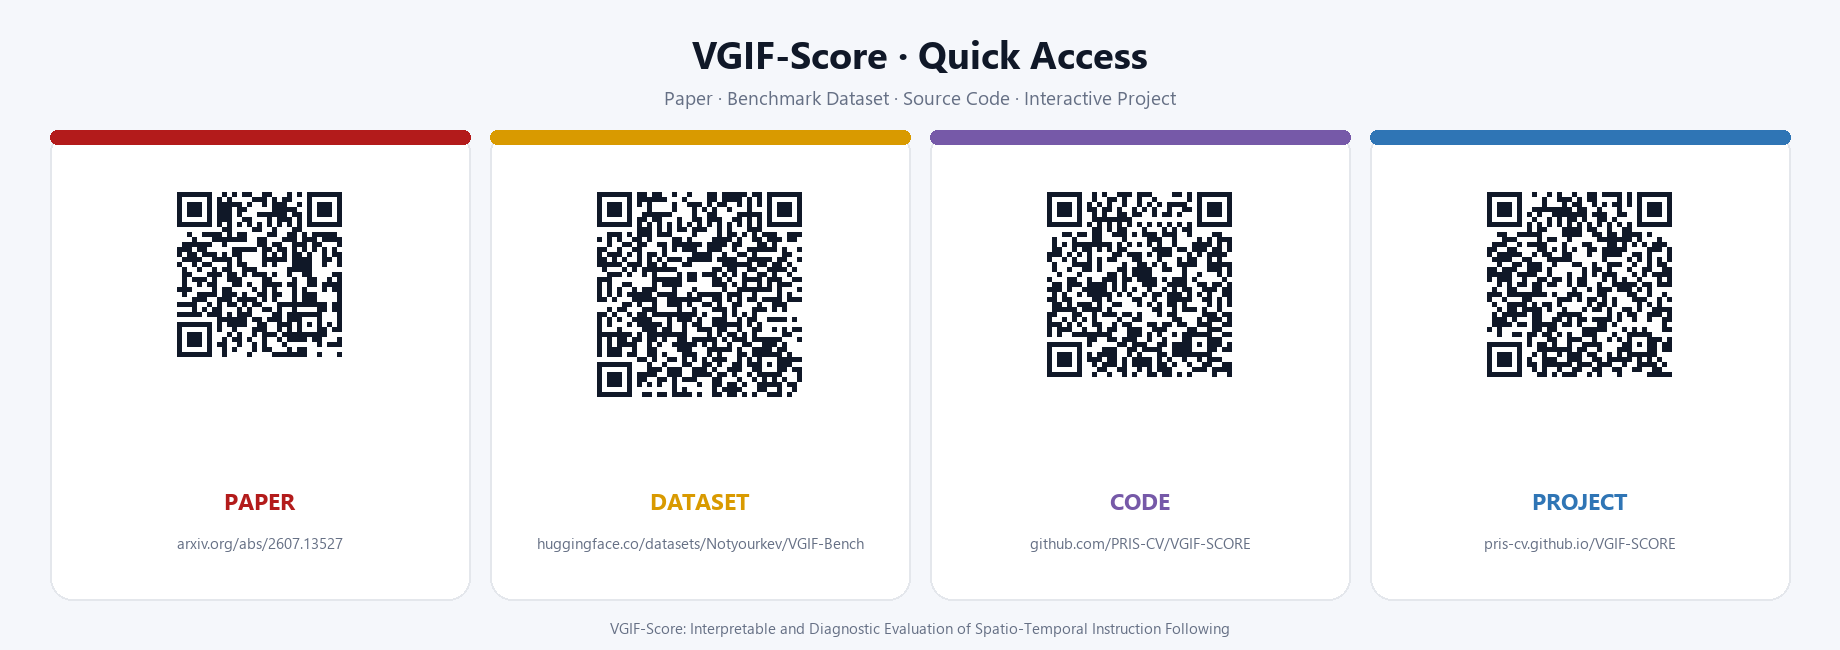
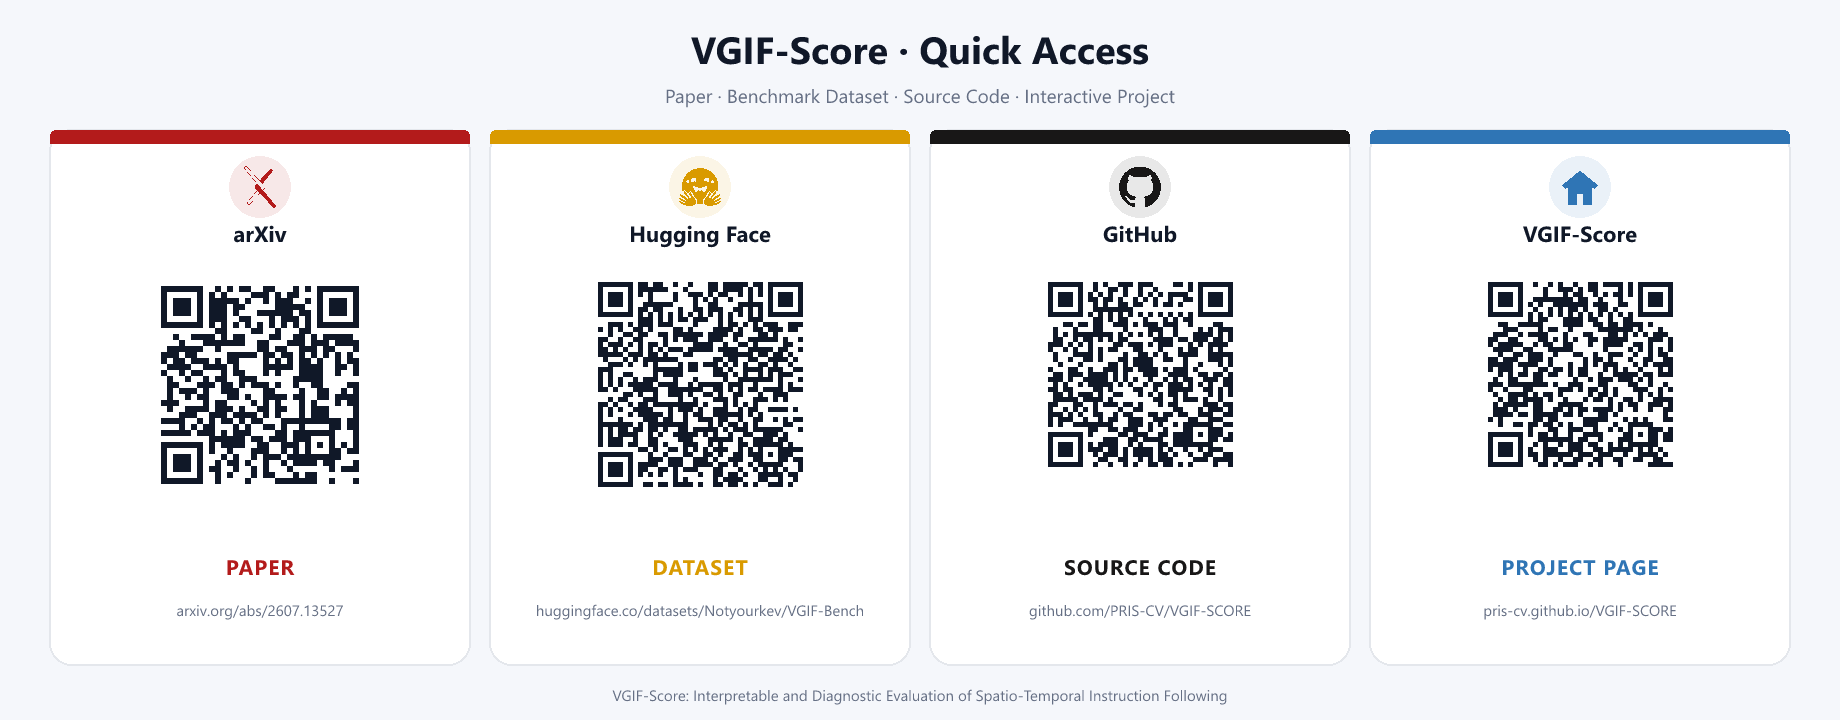
Add branded QR code cards

diff --git a/code/benchmark/generate_qr_assets.py b/code/benchmark/generate_qr_assets.py
@@ -1,4 +1,4 @@
-"""Generate print-ready QR assets for the VGIF-Score public links."""
+"""Generate print-ready and branded QR assets for VGIF-Score."""
 
 from __future__ import annotations
 
@@ -7,7 +7,8 @@ from html import escape
 from pathlib import Path
 
 import qrcode
-from PIL import Image, ImageDraw, ImageFont
+from PIL import Image, ImageDraw
+from resvg_py import svg_to_bytes
 
 
 ROOT = Path(__file__).resolve().parents[2]
@@ -17,45 +18,73 @@ INK = "#101828"
 PAPER = "#FFFFFF"
 CANVAS = "#F5F7FB"
 MUTED = "#667085"
+FONT = "Segoe UI,Arial,sans-serif"
+
+# arXiv, Hugging Face, and GitHub paths are from Simple Icons (CC0-1.0).
+ARXIV_ICON = (
+    "M3.8423 0a1.0037 1.0037 0 0 0-.922.6078c-.1536.3687-.0438.6275.2938 1.1113l6.9185 8.3597-1.0223 1.1058a1.0393 1.0393 0 0 0 .003 1.4229l1.2292 1.3135-5.4391 6.4444c-.2803.299-.4538.823-.2971 1.1986a1.0253 1.0253 0 0 0 .9585.635.9133.9133 0 0 0 .6891-.3405l5.783-6.126 7.4902 8.0051a.8527.8527 0 0 0 .6835.2597.9575.9575 0 0 0 .8777-.6138c.1577-.377-.017-.7502-.306-1.1407l-7.0518-8.3418 1.0632-1.13a.9626.9626 0 0 0 .0089-1.3165L4.6336.4639s-.3733-.4535-.768-.463zm0 .272h.0166c.2179.0052.4874.2715.5644.3639l.005.006.0052.0055 10.169 10.9905a.6915.6915 0 0 1-.0072.945l-1.0666 1.133-1.4982-1.7724-8.5994-10.39c-.3286-.472-.352-.6183-.2592-.841a.7307.7307 0 0 1 .6704-.4401Zm14.341 1.5701a.877.877 0 0 0-.6554.2418l-5.6962 6.1584 1.6944 1.8319 5.3089-6.5138c.3251-.4335.479-.6603.3247-1.0292a1.1205 1.1205 0 0 0-.9763-.689zm-7.6557 12.2823 1.3186 1.4135-5.7864 6.1295a.6494.6494 0 0 1-.4959.26.7516.7516 0 0 1-.706-.4669c-.1119-.2682.0359-.6864.2442-.9083l.0051-.0055.0047-.0055z"
+)
+HUGGING_FACE_ICON = (
+    "M12.025 1.13c-5.77 0-10.449 4.647-10.449 10.378 0 1.112.178 2.181.503 3.185.064-.222.203-.444.416-.577a.96.96 0 0 1 .524-.15c.293 0 .584.124.84.284.278.173.48.408.71.694.226.282.458.611.684.951v-.014c.017-.324.106-.622.264-.874s.403-.487.762-.543c.3-.047.596.06.787.203s.31.313.4.467c.15.257.212.468.233.542.01.026.653 1.552 1.657 2.54.616.605 1.01 1.223 1.082 1.912.055.537-.096 1.059-.38 1.572.637.121 1.294.187 1.967.187.657 0 1.298-.063 1.921-.178-.287-.517-.44-1.041-.384-1.581.07-.69.465-1.307 1.081-1.913 1.004-.987 1.647-2.513 1.657-2.539.021-.074.083-.285.233-.542.09-.154.208-.323.4-.467a1.08 1.08 0 0 1 .787-.203c.359.056.604.29.762.543s.247.55.265.874v.015c.225-.34.457-.67.683-.952.23-.286.432-.52.71-.694.257-.16.547-.284.84-.285a.97.97 0 0 1 .524.151c.228.143.373.388.43.625l.006.04a10.3 10.3 0 0 0 .534-3.273c0-5.731-4.678-10.378-10.449-10.378M8.327 6.583a1.5 1.5 0 0 1 .713.174 1.487 1.487 0 0 1 .617 2.013c-.183.343-.762-.214-1.102-.094-.38.134-.532.914-.917.71a1.487 1.487 0 0 1 .69-2.803m7.486 0a1.487 1.487 0 0 1 .689 2.803c-.385.204-.536-.576-.916-.71-.34-.12-.92.437-1.103.094a1.487 1.487 0 0 1 .617-2.013 1.5 1.5 0 0 1 .713-.174m-10.68 1.55a.96.96 0 1 1 0 1.921.96.96 0 0 1 0-1.92m13.838 0a.96.96 0 1 1 0 1.92.96.96 0 0 1 0-1.92M8.489 11.458c.588.01 1.965 1.157 3.572 1.164 1.607-.007 2.984-1.155 3.572-1.164.196-.003.305.12.305.454 0 .886-.424 2.328-1.563 3.202-.22-.756-1.396-1.366-1.63-1.32q-.011.001-.02.006l-.044.026-.01.008-.03.024q-.018.017-.035.036l-.032.04a1 1 0 0 0-.058.09l-.014.025q-.049.088-.11.19a1 1 0 0 1-.083.116 1.2 1.2 0 0 1-.173.18q-.035.029-.075.058a1.3 1.3 0 0 1-.251-.243 1 1 0 0 1-.076-.107c-.124-.193-.177-.363-.337-.444-.034-.016-.104-.008-.2.022q-.094.03-.216.087-.06.028-.125.063l-.13.074q-.067.04-.136.086a3 3 0 0 0-.135.096 3 3 0 0 0-.26.219 2 2 0 0 0-.12.121 2 2 0 0 0-.106.128l-.002.002a2 2 0 0 0-.09.132l-.001.001a1.2 1.2 0 0 0-.105.212q-.013.036-.024.073c-1.139-.875-1.563-2.317-1.563-3.203 0-.334.109-.457.305-.454m.836 10.354c.824-1.19.766-2.082-.365-3.194-1.13-1.112-1.789-2.738-1.789-2.738s-.246-.945-.806-.858-.97 1.499.202 2.362c1.173.864-.233 1.45-.685.64-.45-.812-1.683-2.896-2.322-3.295s-1.089-.175-.938.647 2.822 2.813 2.562 3.244-1.176-.506-1.176-.506-2.866-2.567-3.49-1.898.473 1.23 2.037 2.16c1.564.932 1.686 1.178 1.464 1.53s-3.675-2.511-4-1.297c-.323 1.214 3.524 1.567 3.287 2.405-.238.839-2.71-1.587-3.216-.642-.506.946 3.49 2.056 3.522 2.064 1.29.33 4.568 1.028 5.713-.624m5.349 0c-.824-1.19-.766-2.082.365-3.194 1.13-1.112 1.789-2.738 1.789-2.738s.246-.945.806-.858.97 1.499-.202 2.362c-1.173.864.233 1.45.685.64.451-.812 1.683-2.896 2.322-3.295s1.089-.175.938.647-2.822 2.813-2.562 3.244 1.176-.506 1.176-.506 2.866-2.567 3.49-1.898-.473 1.23-2.037 2.16c-1.564.932-1.686 1.178-1.464 1.53s3.675-2.511 4-1.297c.323 1.214-3.524 1.567-3.287 2.405.238.839 2.71-1.587 3.216-.642.506.946-3.49 2.056-3.522 2.064-1.29.33-4.568 1.028-5.713-.624"
+)
+GITHUB_ICON = (
+    "M12 .297c-6.63 0-12 5.373-12 12 0 5.303 3.438 9.8 8.205 11.385.6.113.82-.258.82-.577 0-.285-.01-1.04-.015-2.04-3.338.724-4.042-1.61-4.042-1.61C4.422 18.07 3.633 17.7 3.633 17.7c-1.087-.744.084-.729.084-.729 1.205.084 1.838 1.236 1.838 1.236 1.07 1.835 2.809 1.305 3.495.998.108-.776.417-1.305.76-1.605-2.665-.3-5.466-1.332-5.466-5.93 0-1.31.465-2.38 1.235-3.22-.135-.303-.54-1.523.105-3.176 0 0 1.005-.322 3.3 1.23.96-.267 1.98-.399 3-.405 1.02.006 2.04.138 3 .405 2.28-1.552 3.285-1.23 3.285-1.23.645 1.653.24 2.873.12 3.176.765.84 1.23 1.91 1.23 3.22 0 4.61-2.805 5.625-5.475 5.92.42.36.81 1.096.81 2.22 0 1.606-.015 2.896-.015 3.286 0 .315.21.69.825.57C20.565 22.092 24 17.592 24 12.297c0-6.627-5.373-12-12-12"
+)
+HOME_ICON = "M12 2.6 1.8 11l1.9 2.3 1.3-1.1V22h5.2v-6h3.6v6H19v-9.8l1.3 1.1 1.9-2.3z"
 
 
 @dataclass(frozen=True)
 class Link:
     slug: str
     label: str
+    brand: str
+    action: str
     url: str
     display_url: str
     accent: str
+    icon_path: str
 
 
 LINKS = (
     Link(
         slug="paper",
         label="PAPER",
+        brand="arXiv",
+        action="SCAN TO READ THE PAPER",
         url="https://arxiv.org/abs/2607.13527",
         display_url="arxiv.org/abs/2607.13527",
         accent="#B31B1B",
+        icon_path=ARXIV_ICON,
     ),
     Link(
         slug="dataset",
         label="DATASET",
+        brand="Hugging Face",
+        action="SCAN TO OPEN THE DATASET",
         url="https://huggingface.co/datasets/Notyourkev/VGIF-Bench",
         display_url="huggingface.co/datasets/Notyourkev/VGIF-Bench",
         accent="#D99A00",
+        icon_path=HUGGING_FACE_ICON,
     ),
     Link(
         slug="code",
-        label="CODE",
+        label="SOURCE CODE",
+        brand="GitHub",
+        action="SCAN TO VIEW THE SOURCE CODE",
         url="https://github.com/PRIS-CV/VGIF-SCORE",
         display_url="github.com/PRIS-CV/VGIF-SCORE",
-        accent="#7659A8",
+        accent="#181717",
+        icon_path=GITHUB_ICON,
     ),
     Link(
         slug="project",
-        label="PROJECT",
+        label="PROJECT PAGE",
+        brand="VGIF-Score",
+        action="SCAN TO VISIT THE PROJECT PAGE",
         url="https://pris-cv.github.io/VGIF-SCORE/",
         display_url="pris-cv.github.io/VGIF-SCORE",
         accent="#2F75B5",
+        icon_path=HOME_ICON,
     ),
 )
 
@@ -93,167 +122,126 @@ def write_qr_png(matrix: list[list[bool]], destination: Path, scale: int = 16) -
     side = len(matrix) * scale
     image = Image.new("RGB", (side, side), PAPER)
     draw = ImageDraw.Draw(image)
-    ink = (16, 24, 40)
     for row_index, row in enumerate(matrix):
         for column_index, active in enumerate(row):
             if active:
                 x0 = column_index * scale
                 y0 = row_index * scale
-                draw.rectangle((x0, y0, x0 + scale - 1, y0 + scale - 1), fill=ink)
+                draw.rectangle((x0, y0, x0 + scale - 1, y0 + scale - 1), fill=INK)
     image.save(destination, format="PNG", optimize=True)
 
 
 def write_qr_svg(matrix: list[list[bool]], destination: Path, title: str) -> None:
     side = len(matrix)
-    path = matrix_path(matrix)
     svg = f"""<svg xmlns="http://www.w3.org/2000/svg" viewBox="0 0 {side} {side}" role="img" aria-labelledby="title">
   <title id="title">{escape(title)}</title>
   <rect width="{side}" height="{side}" fill="{PAPER}"/>
-  <path d="{path}" fill="{INK}" shape-rendering="crispEdges"/>
+  <path d="{matrix_path(matrix)}" fill="{INK}" shape-rendering="crispEdges"/>
 </svg>
 """
     destination.write_text(svg, encoding="utf-8", newline="\n")
 
 
-def load_font(size: int, bold: bool = False) -> ImageFont.FreeTypeFont | ImageFont.ImageFont:
-    filename = "segoeuib.ttf" if bold else "segoeui.ttf"
-    font_path = Path("C:/Windows/Fonts") / filename
-    if font_path.exists():
-        return ImageFont.truetype(str(font_path), size=size)
-    return ImageFont.load_default()
+def brand_icon(link: Link, center_x: float, y: int, size: int) -> str:
+    x = center_x - size / 2
+    circle_y = y + size / 2
+    scale = size / 24
+    return (
+        f'<circle cx="{center_x}" cy="{circle_y}" r="{size / 2 + 10}" '
+        f'fill="{link.accent}" opacity="0.10"/>'
+        f'<g transform="translate({x} {y}) scale({scale})" fill="{link.accent}">'
+        f'<path d="{link.icon_path}"/></g>'
+    )
 
 
-def centered_text(draw: ImageDraw.ImageDraw, xy: tuple[int, int], text: str, font, fill) -> None:
-    x, y = xy
-    bounds = draw.textbbox((0, 0), text, font=font)
-    width = bounds[2] - bounds[0]
-    draw.text((x - width / 2, y), text, font=font, fill=fill)
-
-
-def draw_matrix_png(
-    draw: ImageDraw.ImageDraw,
-    matrix: list[list[bool]],
-    x: int,
-    y: int,
-    scale: int,
-) -> None:
+def qr_svg(matrix: list[list[bool]], center_x: float, y: int, target_side: int) -> tuple[str, int]:
+    scale = max(1, round(target_side / len(matrix)))
     side = len(matrix) * scale
-    draw.rectangle((x, y, x + side - 1, y + side - 1), fill=PAPER)
-    for row_index, row in enumerate(matrix):
-        for column_index, active in enumerate(row):
-            if active:
-                x0 = x + column_index * scale
-                y0 = y + row_index * scale
-                draw.rectangle((x0, y0, x0 + scale - 1, y0 + scale - 1), fill=INK)
-
-
-def write_share_card_png(matrices: dict[str, list[list[bool]]], destination: Path) -> None:
-    width, height = 1840, 650
-    image = Image.new("RGB", (width, height), CANVAS)
-    draw = ImageDraw.Draw(image)
-    title_font = load_font(38, bold=True)
-    subtitle_font = load_font(19)
-    label_font = load_font(23, bold=True)
-    url_font = load_font(15)
-
-    centered_text(draw, (width // 2, 28), "VGIF-Score · Quick Access", title_font, INK)
-    centered_text(
-        draw,
-        (width // 2, 84),
-        "Paper · Benchmark Dataset · Source Code · Interactive Project",
-        subtitle_font,
-        MUTED,
+    x = round(center_x - side / 2)
+    return (
+        f'<rect x="{x}" y="{y}" width="{side}" height="{side}" fill="{PAPER}"/>'
+        f'<path d="{matrix_path(matrix, x, y, scale)}" fill="{INK}" '
+        f'shape-rendering="crispEdges"/>',
+        side,
     )
 
-    margin, gap, card_y, card_height = 50, 20, 130, 470
-    card_width = (width - 2 * margin - 3 * gap) // 4
 
-    for index, link in enumerate(LINKS):
-        matrix = matrices[link.slug]
-        x = margin + index * (card_width + gap)
-        draw.rounded_rectangle(
-            (x, card_y, x + card_width, card_y + card_height),
-            radius=22,
-            fill=PAPER,
-            outline="#E4E7EC",
-            width=2,
+def branded_card_svg(link: Link, matrix: list[list[bool]]) -> str:
+    width, height = 760, 1060
+    center = width / 2
+    qr, qr_side = qr_svg(matrix, center, 220, 580)
+    label_y = 220 + qr_side + 62
+    return "\n".join(
+        (
+            f'<svg xmlns="http://www.w3.org/2000/svg" viewBox="0 0 {width} {height}" role="img" aria-labelledby="title desc">',
+            f'<title id="title">{escape(link.brand)} QR code for {escape(link.label.lower())}</title>',
+            f'<desc id="desc">{escape(link.action.title())}: {escape(link.url)}</desc>',
+            f'<rect width="{width}" height="{height}" fill="{CANVAS}"/>',
+            f'<rect x="20" y="20" width="720" height="1020" rx="34" fill="{PAPER}" stroke="#E4E7EC" stroke-width="2"/>',
+            f'<path d="M54 20H706Q740 20 740 54V70H20V54Q20 20 54 20Z" fill="{link.accent}"/>',
+            brand_icon(link, center, 84, 62),
+            f'<text x="{center}" y="185" text-anchor="middle" font-family="{FONT}" font-size="30" font-weight="700" fill="{INK}">{escape(link.brand)}</text>',
+            qr,
+            f'<text x="{center}" y="{label_y}" text-anchor="middle" font-family="{FONT}" font-size="24" font-weight="700" letter-spacing="1.4" fill="{link.accent}">{escape(link.action)}</text>',
+            f'<text x="{center}" y="{label_y + 48}" text-anchor="middle" font-family="{FONT}" font-size="18" fill="{MUTED}">{escape(link.display_url)}</text>',
+            f'<line x1="130" y1="972" x2="630" y2="972" stroke="#E4E7EC"/>',
+            f'<text x="{center}" y="1015" text-anchor="middle" font-family="{FONT}" font-size="15" fill="{MUTED}">VGIF-Score · Spatio-Temporal Instruction Following</text>',
+            "</svg>",
         )
-        draw.rounded_rectangle(
-            (x, card_y, x + card_width, card_y + 14),
-            radius=7,
-            fill=link.accent,
-        )
-
-        scale = 5
-        qr_side = len(matrix) * scale
-        qr_x = x + (card_width - qr_side) // 2
-        qr_y = card_y + 42
-        draw_matrix_png(draw, matrix, qr_x, qr_y, scale)
-
-        centered_text(
-            draw,
-            (x + card_width // 2, card_y + 355),
-            link.label,
-            label_font,
-            link.accent,
-        )
-        centered_text(
-            draw,
-            (x + card_width // 2, card_y + 402),
-            link.display_url,
-            url_font,
-            MUTED,
-        )
-
-    centered_text(
-        draw,
-        (width // 2, 617),
-        "VGIF-Score: Interpretable and Diagnostic Evaluation of Spatio-Temporal Instruction Following",
-        url_font,
-        MUTED,
-    )
-    image.save(destination, format="PNG", optimize=True)
+    ) + "\n"
 
 
-def write_share_card_svg(matrices: dict[str, list[list[bool]]], destination: Path) -> None:
-    width, height = 1840, 650
-    margin, gap, card_y, card_height = 50, 20, 130, 470
+def share_card_svg(matrices: dict[str, list[list[bool]]]) -> str:
+    width, height = 1840, 720
+    margin, gap, card_y, card_height = 50, 20, 130, 535
     card_width = (width - 2 * margin - 3 * gap) // 4
     pieces = [
         f'<svg xmlns="http://www.w3.org/2000/svg" viewBox="0 0 {width} {height}" role="img" aria-labelledby="title desc">',
-        '<title id="title">VGIF-Score quick access QR codes</title>',
-        '<desc id="desc">QR codes for the paper, benchmark dataset, source code, and interactive project page.</desc>',
+        '<title id="title">VGIF-Score branded quick access QR codes</title>',
+        '<desc id="desc">Branded QR codes for arXiv, Hugging Face, GitHub, and the VGIF-Score project page.</desc>',
         f'<rect width="{width}" height="{height}" fill="{CANVAS}"/>',
-        f'<text x="{width / 2}" y="66" text-anchor="middle" font-family="Segoe UI,Arial,sans-serif" font-size="38" font-weight="700" fill="{INK}">VGIF-Score · Quick Access</text>',
-        f'<text x="{width / 2}" y="105" text-anchor="middle" font-family="Segoe UI,Arial,sans-serif" font-size="19" fill="{MUTED}">Paper · Benchmark Dataset · Source Code · Interactive Project</text>',
+        f'<text x="{width / 2}" y="64" text-anchor="middle" font-family="{FONT}" font-size="38" font-weight="700" fill="{INK}">VGIF-Score · Quick Access</text>',
+        f'<text x="{width / 2}" y="103" text-anchor="middle" font-family="{FONT}" font-size="19" fill="{MUTED}">Paper · Benchmark Dataset · Source Code · Interactive Project</text>',
     ]
 
     for index, link in enumerate(LINKS):
         matrix = matrices[link.slug]
         x = margin + index * (card_width + gap)
-        scale = 5
-        qr_side = len(matrix) * scale
-        qr_x = x + (card_width - qr_side) // 2
-        qr_y = card_y + 42
-        path = matrix_path(matrix, qr_x, qr_y, scale)
+        center = x + card_width / 2
+        qr, _ = qr_svg(matrix, center, card_y + 132, 245)
         pieces.extend(
             (
                 f'<rect x="{x}" y="{card_y}" width="{card_width}" height="{card_height}" rx="22" fill="{PAPER}" stroke="#E4E7EC" stroke-width="2"/>',
                 f'<path d="M{x + 7} {card_y}H{x + card_width - 7}Q{x + card_width} {card_y} {x + card_width} {card_y + 7}V{card_y + 14}H{x}V{card_y + 7}Q{x} {card_y} {x + 7} {card_y}Z" fill="{link.accent}"/>',
-                f'<rect x="{qr_x}" y="{qr_y}" width="{qr_side}" height="{qr_side}" fill="{PAPER}"/>',
-                f'<path d="{path}" fill="{INK}" shape-rendering="crispEdges"/>',
-                f'<text x="{x + card_width / 2}" y="{card_y + 380}" text-anchor="middle" font-family="Segoe UI,Arial,sans-serif" font-size="23" font-weight="700" fill="{link.accent}">{link.label}</text>',
-                f'<text x="{x + card_width / 2}" y="{card_y + 425}" text-anchor="middle" font-family="Segoe UI,Arial,sans-serif" font-size="15" fill="{MUTED}">{escape(link.display_url)}</text>',
+                brand_icon(link, center, card_y + 36, 42),
+                f'<text x="{center}" y="{card_y + 112}" text-anchor="middle" font-family="{FONT}" font-size="22" font-weight="700" fill="{INK}">{escape(link.brand)}</text>',
+                qr,
+                f'<text x="{center}" y="{card_y + 445}" text-anchor="middle" font-family="{FONT}" font-size="21" font-weight="700" letter-spacing="1" fill="{link.accent}">{escape(link.label)}</text>',
+                f'<text x="{center}" y="{card_y + 486}" text-anchor="middle" font-family="{FONT}" font-size="15" fill="{MUTED}">{escape(link.display_url)}</text>',
             )
         )
 
     pieces.extend(
         (
-            f'<text x="{width / 2}" y="635" text-anchor="middle" font-family="Segoe UI,Arial,sans-serif" font-size="15" fill="{MUTED}">VGIF-Score: Interpretable and Diagnostic Evaluation of Spatio-Temporal Instruction Following</text>',
+            f'<text x="{width / 2}" y="701" text-anchor="middle" font-family="{FONT}" font-size="15" fill="{MUTED}">VGIF-Score: Interpretable and Diagnostic Evaluation of Spatio-Temporal Instruction Following</text>',
             "</svg>",
         )
     )
-    destination.write_text("\n".join(pieces) + "\n", encoding="utf-8", newline="\n")
+    return "\n".join(pieces) + "\n"
+
+
+def write_svg_and_png(svg: str, svg_path: Path, png_path: Path, width: int, height: int) -> None:
+    svg_path.write_text(svg, encoding="utf-8", newline="\n")
+    png_path.write_bytes(
+        svg_to_bytes(
+            svg_string=svg,
+            width=width,
+            height=height,
+            font_dirs=["C:/Windows/Fonts"],
+            shape_rendering="crisp_edges",
+            text_rendering="optimize_legibility",
+        )
+    )
 
 
 def main() -> None:
@@ -264,12 +252,27 @@ def main() -> None:
         matrix = matrices[link.slug]
         write_qr_png(matrix, OUTPUT_DIR / f"{link.slug}-qr.png")
         write_qr_svg(matrix, OUTPUT_DIR / f"{link.slug}-qr.svg", f"{link.label}: {link.url}")
+        write_svg_and_png(
+            branded_card_svg(link, matrix),
+            OUTPUT_DIR / f"{link.slug}-card.svg",
+            OUTPUT_DIR / f"{link.slug}-card.png",
+            760,
+            1060,
+        )
 
-    write_share_card_png(matrices, OUTPUT_DIR / "vgif-score-links.png")
-    write_share_card_svg(matrices, OUTPUT_DIR / "vgif-score-links.svg")
+    write_svg_and_png(
+        share_card_svg(matrices),
+        OUTPUT_DIR / "vgif-score-links.svg",
+        OUTPUT_DIR / "vgif-score-links.png",
+        1840,
+        720,
+    )
 
     for link in LINKS:
-        print(f"{link.slug:8s} {len(matrices[link.slug]):2d}x{len(matrices[link.slug]):2d}  {link.url}")
+        print(
+            f"{link.slug:8s} {len(matrices[link.slug]):2d}x{len(matrices[link.slug]):2d}  "
+            f"{link.brand:12s} {link.url}"
+        )
     print(f"Wrote QR assets to {OUTPUT_DIR}")
 
 

diff --git a/docs/assets/qrcodes/README.md b/docs/assets/qrcodes/README.md
@@ -11,7 +11,13 @@ available as a high-resolution PNG and a scalable SVG.
 | `project-qr` | <https://pris-cv.github.io/VGIF-SCORE/> |
 
 `vgif-score-links.png` and `vgif-score-links.svg` combine all four destinations
-into one presentation-ready card.
+into one presentation-ready card. The `*-card` files are branded individual
+cards with recognizable arXiv, Hugging Face, GitHub, or VGIF-Score marks. The
+plain `*-qr` files remain available for maximum flexibility and scan reliability.
+
+The arXiv, Hugging Face, and GitHub icon paths are sourced from
+[Simple Icons](https://github.com/simple-icons/simple-icons) under CC0-1.0.
+Brand names and marks remain the property of their respective owners.
 
 Regenerate the complete asset set from the repository root:
 
